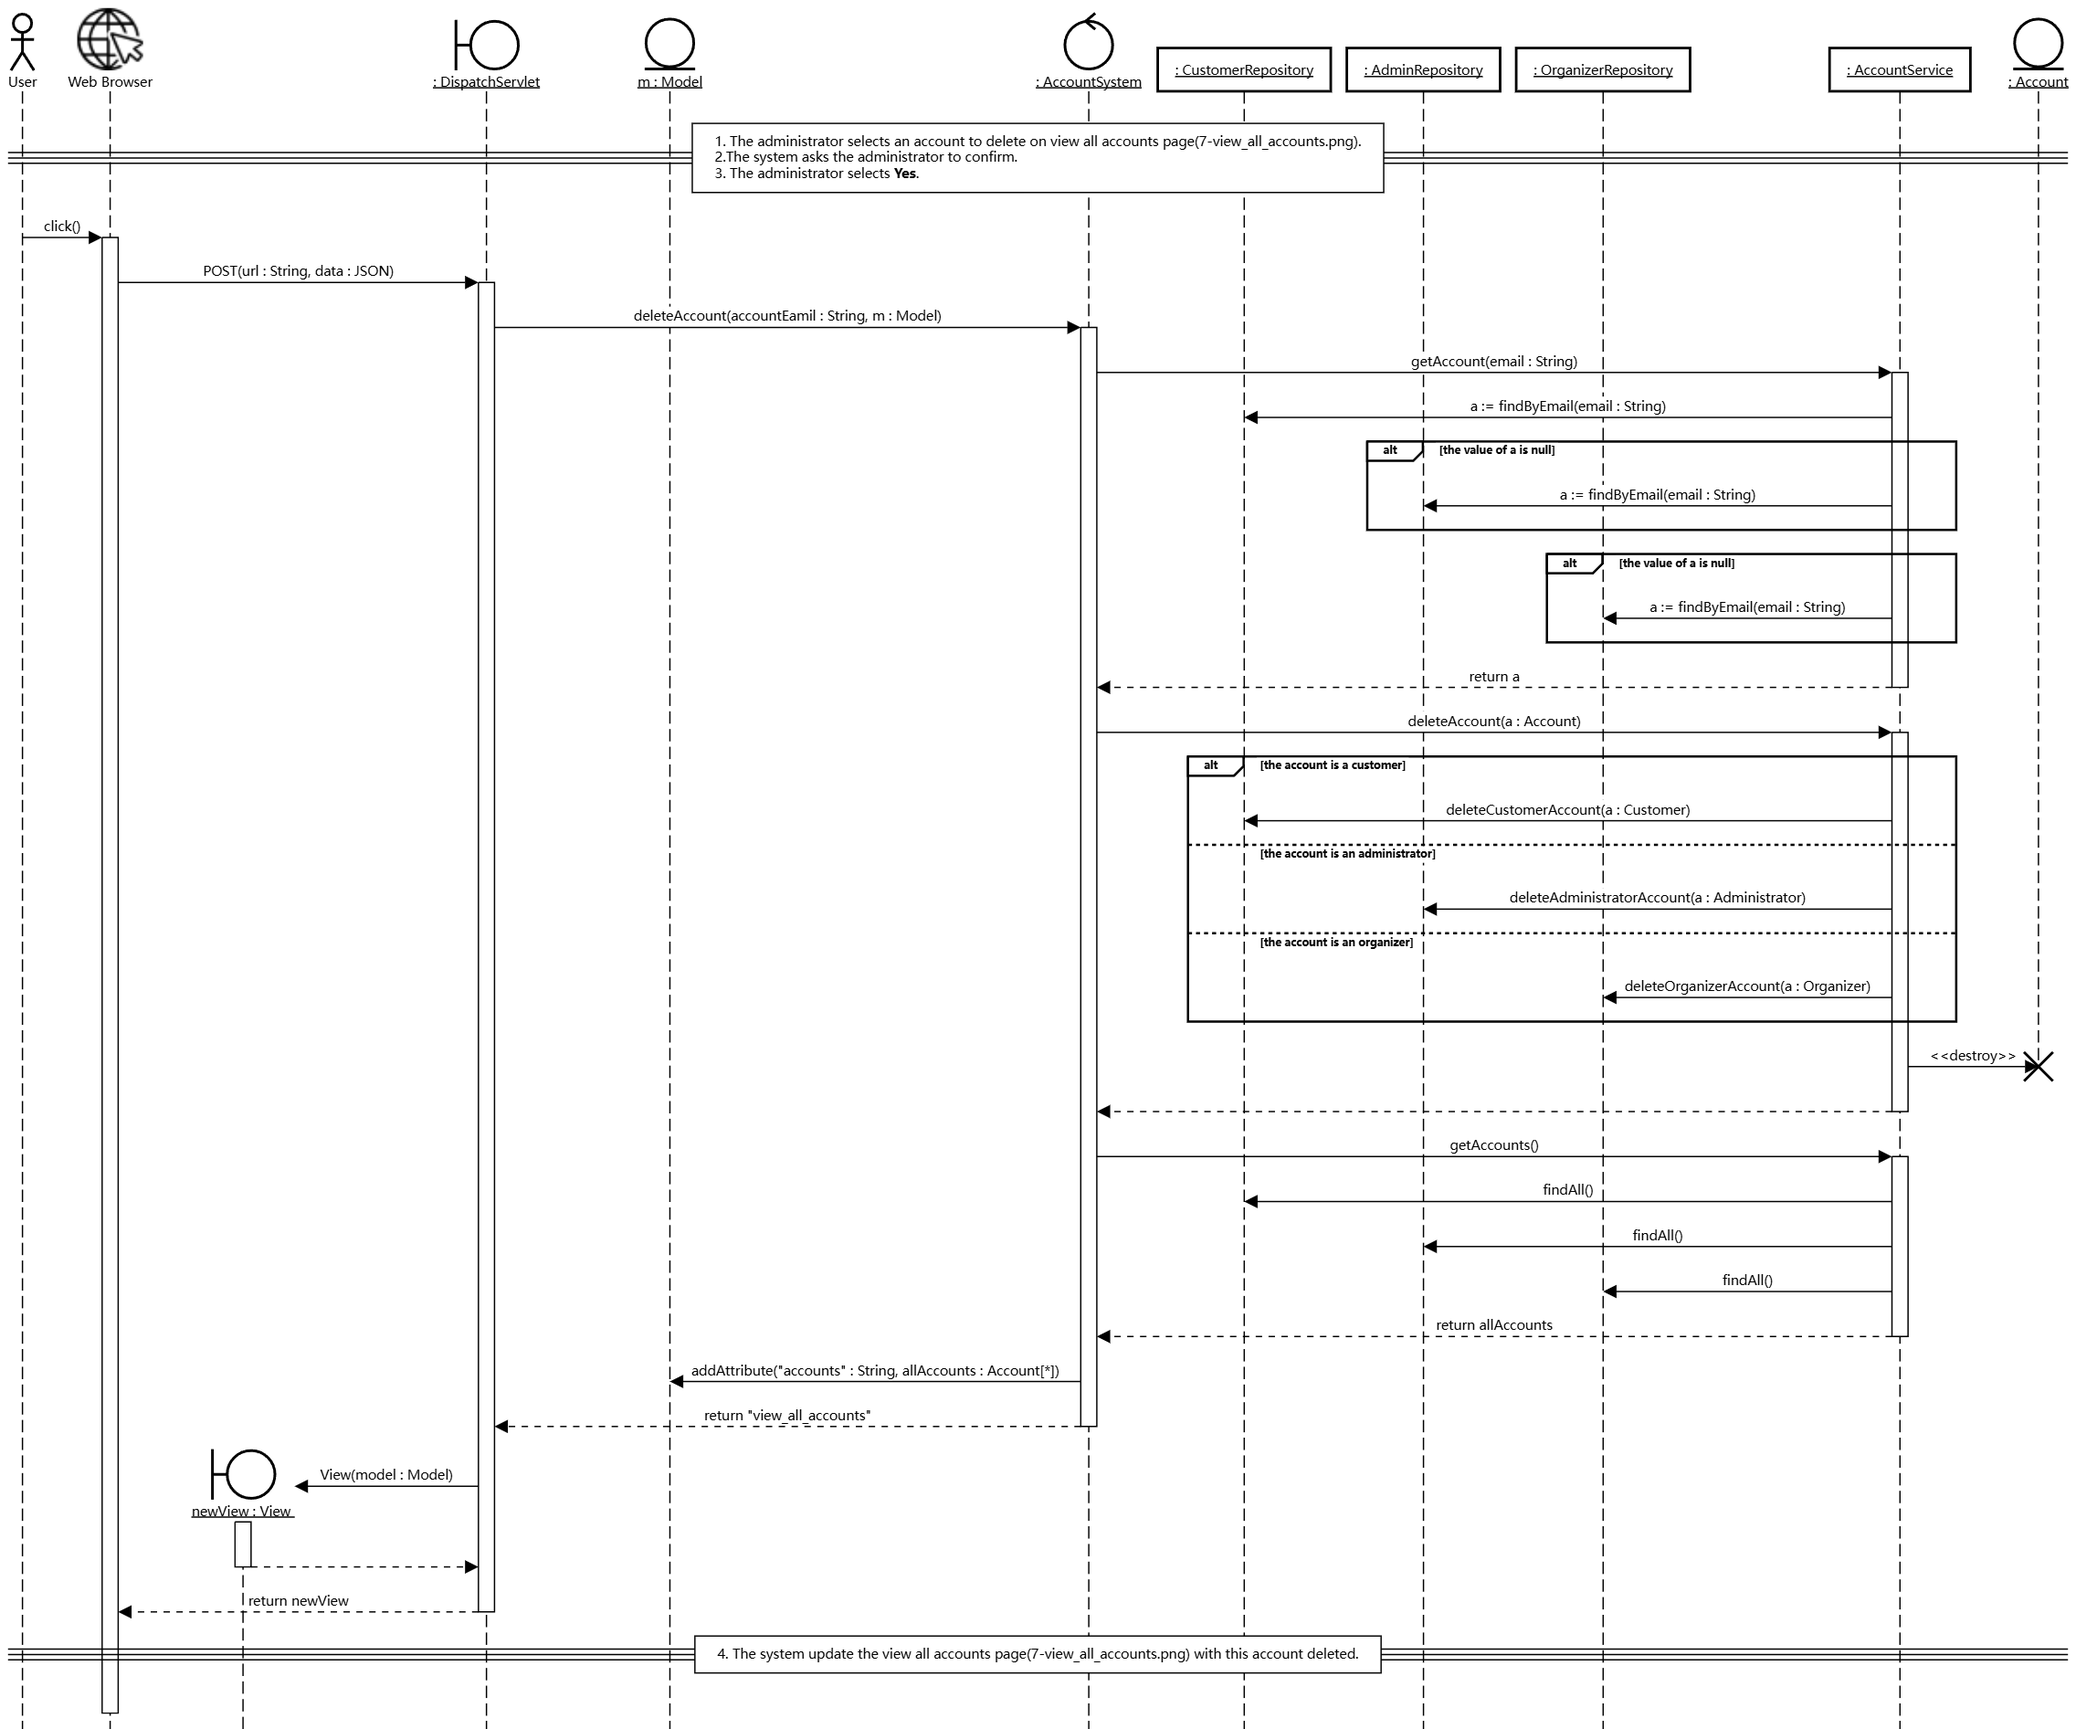
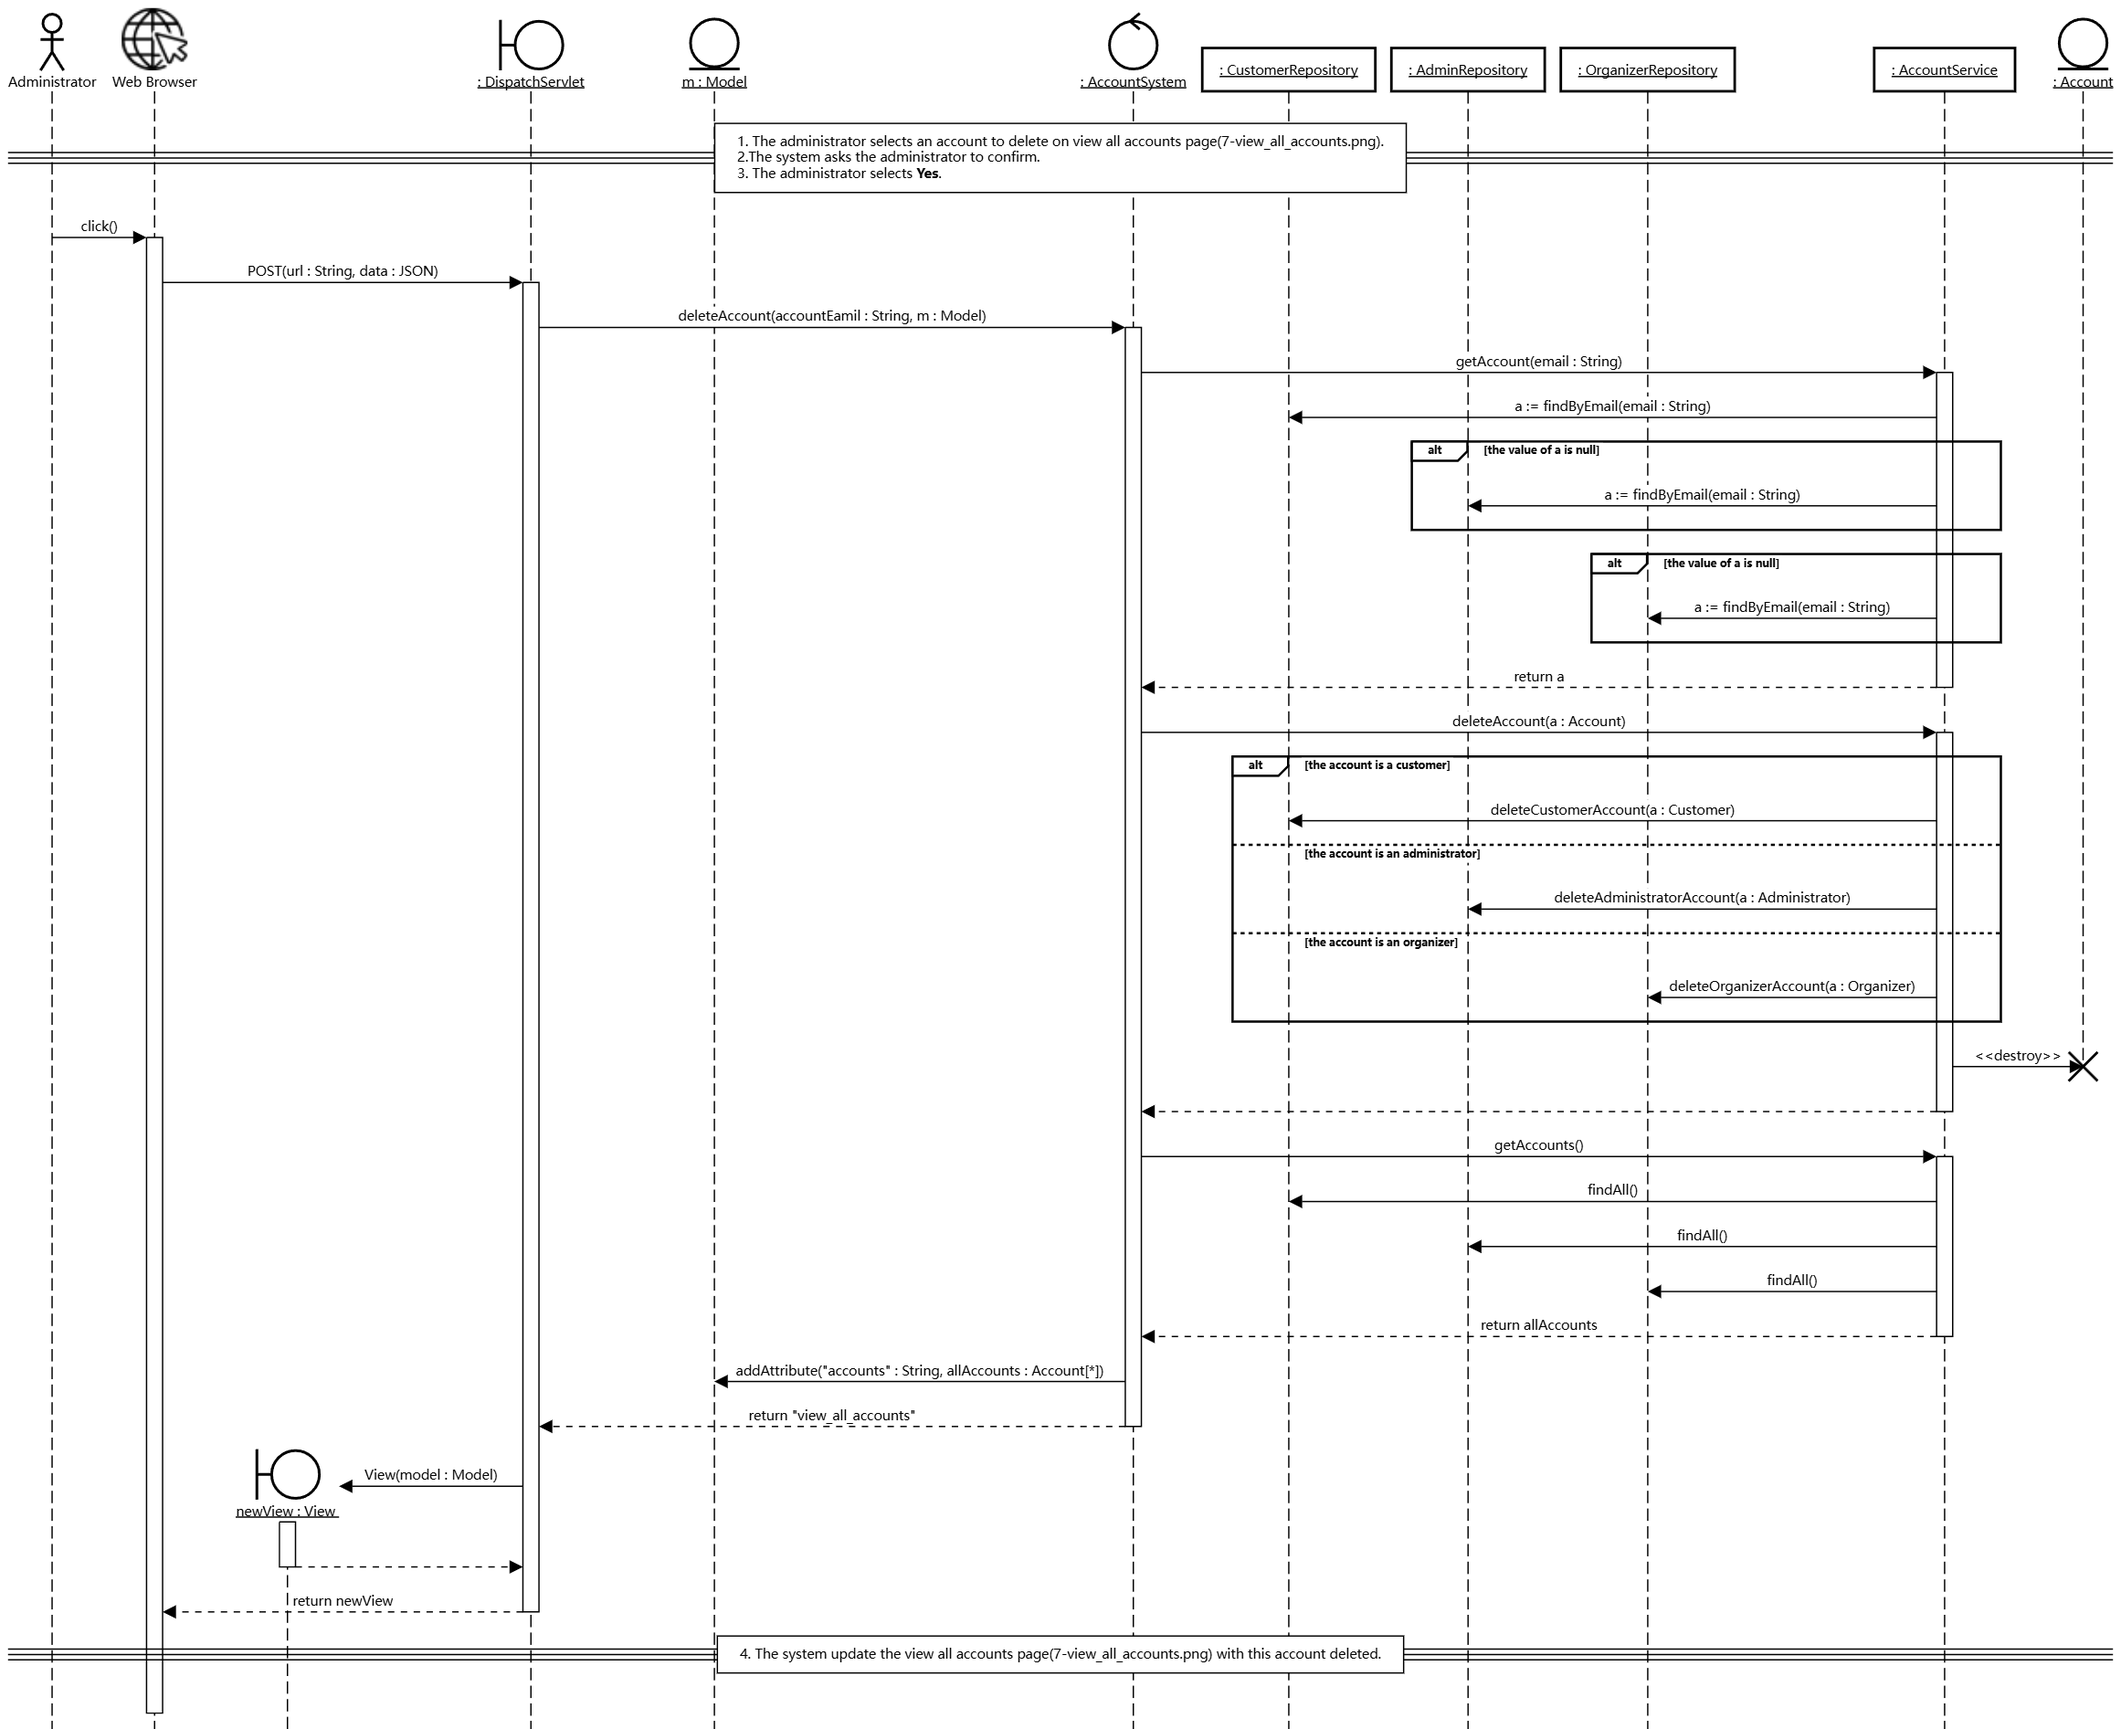
Update 3 files
- /03-design/usecases/docs/15-delete_account.md
- /03-design/sequence-diagrams/Administrator/15-delete_account.png
- /03-design/diagramtexts/Administrator/15-delete_account.txt

diff --git a/03-design/usecases/docs/15-delete_account.md b/03-design/usecases/docs/15-delete_account.md
@@ -11,7 +11,7 @@
 
 ### Sequence Diagram
 
-![Delete Account](/02-analysis/sequence-diagrams/Administrator/15-delete_account.png)
+![Delete Account](/03-design/sequence-diagrams/Administrator/15-delete_account.png)
 
 ## Alternate Course of Events
 
